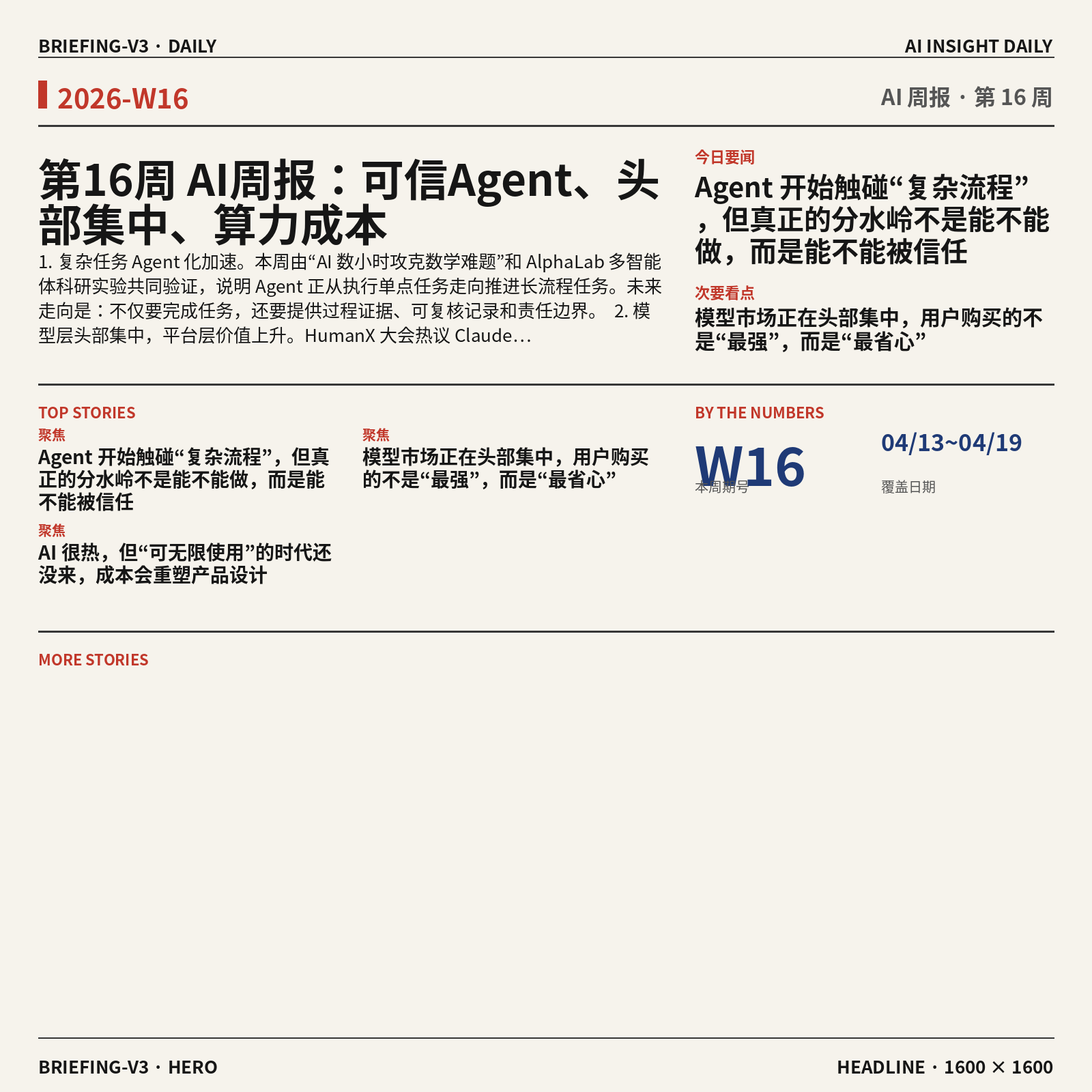
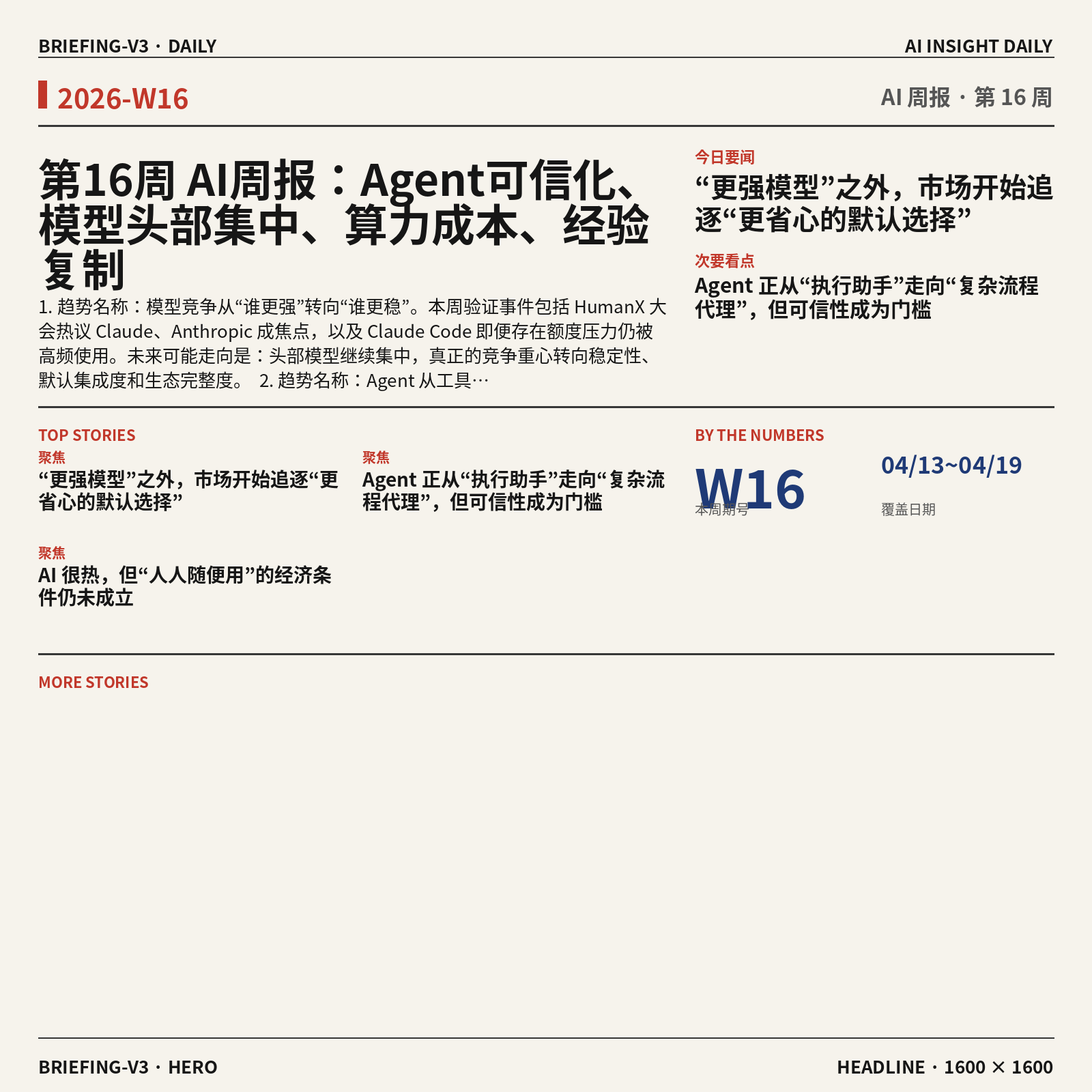
feat: CB Insights 风格趋势全景图 + 更新大字报

Changed region(s): [[0.0312, 0.125, 0.9688, 0.5625], [0.0312, 0.5938, 0.1562, 0.625]]

diff --git a/content/cn/blog/weekly/2026-W16.md b/content/cn/blog/weekly/2026-W16.md
@@ -1,5 +1,5 @@
 ---
-title: "第16周 AI周报：可信Agent、头部集中、算力成本"
+title: "第16周 AI周报：Agent可信化、模型头部集中、算力成本、经验复制"
 date: 2026-04-13T00:00:00+08:00
 tags: ["周报", "2026"]
 description: "2026-04-13 ~ 2026-04-19 AI行业周度综合分析"
@@ -15,209 +15,257 @@ description: "2026-04-13 ~ 2026-04-19 AI行业周度综合分析"
 
 ## 本周聚焦
 
-### 1. Agent 开始触碰“复杂流程”，但真正的分水岭不是能不能做，而是能不能被信任
-本周最值得重视的主线，是两条看似分散、实则高度相关的消息同时出现：一是“中国 AI 数小时攻克十年数学难题”，引发“机器能否独立科研”的讨论；二是 AlphaLab 想让多智能体（多个 AI 分工协作的系统）自动跑完整科研实验。表面上看，这都是“AI 更强了”的新闻；但更深一层，它们共同把 Agent 的竞争从“会不会做任务”推进到“能不能完成复杂流程，并让人相信结果”。
+### 1. “更强模型”之外，市场开始追逐“更省心的默认选择”
+本周一个很强的会场信号来自 HumanX：大会几乎都在聊 Claude，Anthropic 成为焦点。这不是单一品牌热度的问题，而是在说明模型市场的竞争标准正在发生变化。过去大家更关注“谁在榜单上更强”，现在越来越多真实使用者开始偏向“谁更稳定、谁更少出错、谁更容易接入团队工作流（把工具真正嵌进日常工作流程）”。同一天出现的另一条信息也能互相印证：Claude Code 用户反馈，Pro Max 5 倍额度 1.5 小时就耗尽。也就是说，头部产品即便仍有成本和额度摩擦，用户依然在涌向它，说明市场对“可靠默认值”的需求，正在压过对“单次极限性能”的追逐。
 
-为什么这件事重要？因为简单问答、单轮生成、局部辅助，已经越来越难形成真正壁垒。真正拉开差距的，是 AI 是否能在一个长流程里持续推进：拆解目标、调用工具、尝试路径、纠错迭代、给出结论。如果 AI 真的开始进入科研、数学、实验设计这类高复杂度场景，那么行业评价标准就会改变。过去大家比的是模型参数、跑分、单次输出质量；接下来更关键的，是过程透明度、证据链完整性、失败可追踪性、结果可复核性。
+这为什么重要？因为这意味着行业已经从“技术展示期”进入“选择收敛期”。在展示期，新模型只要在某个 benchmark（基准测试）上赢一点，就有传播空间；但在选择收敛期，用户真正关心的是：能不能持续用、团队里大多数人会不会用、出问题时能不能解释、采购和上线风险大不大。Anthropic 被热议，本质上反映的不是大家突然不在乎性能，而是企业和开发者开始用“总体使用体验”来投票。
 
-这对行业意味着什么？第一，Agent 平台的核心价值会从“接入多少模型”转向“如何管理复杂任务的可信执行”。用户未必在乎背后是一个模型还是多个 Agent 协作，但一定会在乎：为什么得出这个答案、用了哪些依据、有没有走偏、失败时能不能定位问题。第二，所谓“独立科研”短期内更可能是一种营销叙事，而不是可直接交付的稳定能力。原因并不神秘：复杂任务里，任何一步判断失真、工具调用错误、上下文污染，都可能把最终结论带偏。第三，谁能把复杂流程产品化，谁才更接近下一阶段入口。这里的产品化，不是做一个更炫的聊天框，而是让普通人也能看懂任务是怎么被完成的。
+对行业意味着什么？第一，后来者只靠再做一个“平均能力更强一点”的模型，会越来越难突围。第二，围绕头部模型形成的生态位会更值钱，比如代码 Agent、工作流封装、组织知识复用、结果审查与评测层。第三，用户会越来越接受“模型不是主角，能把模型变成稳定服务的平台才是主角”。这对创业公司尤其关键：如果底层模型头部集中加快，那么上层产品的护城河就不能建立在“我们也能接一个最强模型”，而要建立在“我们能把复杂选择变成可信结果”。
 
-对我们这类面向普通用户的 Agent 调度与进化平台来说，这一周的信息很直接：平台不能只展示结果，更要展示“结果是怎么来的”。尤其当 Agent 被用于高价值决策时，可信来源、步骤回放、依据标注、版本比较，会比单纯模型效果更重要。换句话说，Agent 正在从“工具”走向“代理人”，而代理人一旦介入复杂流程，信任机制就必须先行。
+从本周素材看，开源项目如 qwen-code、agent-skills、claude-code-local 也在侧面证明这一点：大家不是在单纯追求一个聊天机器人，而是在补齐终端执行、工程技能、本地替代这些“可用性缺口”。模型战争表面上仍在卷参数和能力，实际上市场更在乎的是谁能成为默认工作界面。
 
 ```mermaid
 graph TD
-  classDef event fill:#dbeafe,stroke:#3b82f6,color:#111827;
-  classDef impact fill:#fef3c7,stroke:#f59e0b,color:#111827;
-  classDef insight fill:#d1fae5,stroke:#10b981,color:#111827;
-
   subgraph 事件层
-    A[中国AI数小时攻克数学难题]:::event
-    B[AlphaLab尝试多智能体跑科研流程]:::event
-    C[围绕独立科研能力的讨论升温]:::event
+    A[HumanX大会热议Claude]
+    B[Anthropic成行业焦点]
+    C[Claude Code额度快速耗尽]
+    D[qwen-code等开源Agent涌现]
   end
 
   subgraph 影响层
-    D{Agent已触及复杂任务边界}:::impact
-    E{评价标准从会做转向可信}:::impact
-    F{单次输出强不等于流程可靠}:::impact
-    G{复杂任务需要证据链与复核}:::impact
+    E{用户选择标准转向省心}
+    F{头部模型形成默认选项}
+    G{单靠能力领先更难突围}
+    H{生态层价值上升}
   end
 
   subgraph 启示层
-    H{{平台应展示过程而非只给答案}}:::insight
-    I{{可信来源与步骤回放成关键能力}}:::insight
-    J((Agent竞争进入信任阶段)):::insight
+    I{{产品竞争转向体验整合}}
+    J{{Agent平台需强化评测与路由}}
+    K((稳定服务比单点最强更重要))
   end
 
-  A -- 触发 --> C
-  B -- 验证 --> D
-  C -- 放大 --> E
-  D -- 推动 --> E
-  E -- 指向 --> F
-  F -- 需要 --> G
+  A -- 会场讨论 --> B
+  B -- 强化 --> E
+  C -- 仍未阻止 --> F
+  D -- 补足 --> H
+  E -- 导致 --> F
+  F -- 挤压 --> G
   G -- 倒逼 --> H
-  G -- 强化 --> I
-  H -- 汇聚为 --> J
-  I -- 汇聚为 --> J
+  H -- 指向 --> I
+  E -- 需要 --> J
+  I -- 汇聚为 --> K
+  J -- 支撑 --> K
+
+  classDef event fill:#dbeafe,stroke:#3b82f6;
+  classDef impact fill:#fef3c7,stroke:#f59e0b;
+  classDef insight fill:#d1fae5,stroke:#10b981;
+  class A,B,C,D event;
+  class E,F,G,H impact;
+  class I,J,K insight;
 ```
 
-### 2. 模型市场正在头部集中，用户购买的不是“最强”，而是“最省心”
-本周另一条非常清晰的线索，来自 HumanX 大会对 Claude 的集中讨论，以及“Anthropic 正在成为行业焦点”的报道。与此同时，开源侧也出现了一批围绕 Claude Code、qwen-code、agent-skills、claude-code-local 的项目和讨论。这说明一个现实：行业表面上仍在谈模型能力创新，但市场实际购买决策，已经越来越偏向“稳定、熟悉、低心智负担”的头部产品。
+### 2. Agent 正从“执行助手”走向“复杂流程代理”，但可信性成为门槛
+本周最值得重视的另一条主线，是“中国 AI 数小时攻克十年数学难题”引发“机器能否独立科研”讨论，以及 AlphaLab 这类多智能体自动跑完整科研实验的方向被提及。与此同时，还有研究者专门给“世界模型”下定义，并指出文生视频还不算。这几条信息放在一起看，代表行业正在尝试把 Agent 从“回答问题、生成内容”推进到“理解任务、规划步骤、调用工具、迭代验证、产出结论”的更高层级。
 
-为什么这件事重要？因为这意味着模型层创业的窗口继续变窄，而应用层、平台层的机会却更明确了。用户并不总是追逐榜单第一，他们更在乎：这个东西是不是大家都在用、是否容易上手、在关键场景会不会掉链子、出了问题有没有成熟经验可参考。Claude 成为大会焦点，不只是因为它“强”，更因为它在很多专业用户心中形成了某种“可预期”。而一旦这种认知形成，后来者即便局部能力更强，也很难只靠性能优势撬动迁移。
+这为什么重要？因为一旦 Agent 的目标从“输出一个像样答案”变成“推进一条复杂任务链”，评价标准就变了。过去用户可能只需要一句看起来合理的话，现在必须追问：这个结果是怎么得到的？中间调用了哪些工具？哪些环节是模型猜的，哪些环节有外部依据？别人能否复现？特别是科研、代码、数据分析、商业决策这些高价值任务，真正的瓶颈不再只是能力，而是可信度和可复核性（别人能沿着同样过程重新检查）。
 
-对行业意味着什么？第一，基础模型正在快速品牌化。未来竞争不仅是参数和推理能力的竞争，也是“默认选择权”的竞争。第二，开源项目大量围绕头部模型生态生长，说明开发者和用户会顺着主流能力搭建工具链，而不是平均分布到每个新模型上。第三，这会进一步加速平台型产品的重要性：当底层模型头部集中时，真正可竞争的价值不在“你是否自研模型”，而在“你能否帮用户在主流模型之上做更好的选择、编排、比较和沉淀”。
+“世界模型”定义之争也很关键。它提醒行业：不要把任何看起来复杂、能生成多模态内容的系统都称为“理解世界”。如果一个系统只是在统计上生成逼真视频，它不一定具备可用于推理、规划和长期任务执行的内部表征（对环境状态的稳定理解）。这类概念澄清看似学术，实际上会直接影响产品判断。很多团队容易被“能演示”误导，以为离“能完成复杂任务”只差一点工程封装；但本周的讨论说明，这两者中间还隔着验证、记忆、反馈、环境建模等一整套能力栈。
 
-对我们来说，启示很现实。我们不应该假设用户愿意频繁试用十几个模型，也不该把“模型多”直接等同于“平台强”。平台更像一个决策与信任层：帮用户在少数主流能力之间快速判断哪个更适合当前任务，记录历史表现，形成可迁移的使用经验。用户要的往往不是无限选择，而是低风险地做对选择。
+对行业意味着什么？第一，多 Agent 会继续升温，因为复杂任务天然适合拆分角色与流程。第二，展示结果会越来越不够，平台需要展示依据、轨迹、评价和回放。第三，真正有价值的不是“某个 Agent 会不会自动做科研”，而是“它产出的过程能不能被人和系统共同审计（系统化检查）”。这将决定 Agent 是停留在演示玩具，还是进入真实生产环境。
+
+对于面向普通用户的产品，这一点反而更关键。普通人不是不愿意用 AI 替他做事，而是不敢在高价值任务上把决定权交出去。谁能把“黑箱代理”变成“可追溯代理”，谁就更接近建立长期信任。
 
 ```mermaid
 graph TD
-  classDef event fill:#dbeafe,stroke:#3b82f6,color:#111827;
-  classDef impact fill:#fef3c7,stroke:#f59e0b,color:#111827;
-  classDef insight fill:#d1fae5,stroke:#10b981,color:#111827;
-
   subgraph 事件层
-    A[HumanX大会热议Claude]:::event
-    B[Anthropic成为行业焦点]:::event
-    C[多项开源工具围绕Claude与代码Agent展开]:::event
+    A[中国AI数小时攻克数学难题]
+    B[AlphaLab探索多Agent科研]
+    C[研究者重定义世界模型]
+    D[复杂任务从回答转向推进流程]
   end
 
   subgraph 影响层
-    D{用户偏好从先进转向省心}:::impact
-    E{模型市场头部集中加速}:::impact
-    F{生态工具随主流模型聚拢}:::impact
-    G{后来者仅靠能力优势更难突围}:::impact
+    E{Agent能力边界被抬高}
+    F{结果可信性成为核心门槛}
+    G{仅看演示效果已不够}
+    H{过程可复核需求上升}
   end
 
   subgraph 启示层
-    H{{平台价值在选择与比较层}}:::insight
-    I{{少而稳的模型策略优于盲目堆接入}}:::insight
-    J((默认选择权成为新壁垒)):::insight
+    I{{平台要展示过程与依据}}
+    J{{多Agent需要评测与审计层}}
+    K((可信代理比炫技代理更有价值))
   end
 
-  A -- 显示 --> D
-  B -- 加强 --> E
-  C -- 跟随 --> F
-  D -- 导向 --> E
-  F -- 加深 --> G
-  E -- 倒逼 --> H
-  G -- 支持 --> H
-  H -- 进一步指向 --> I
-  E -- 汇聚为 --> J
-  I -- 汇聚为 --> J
+  A -- 引发 --> E
+  B -- 推动 --> D
+  C -- 澄清 --> G
+  D -- 导致 --> F
+  E -- 抬升 --> F
+  F -- 需要 --> H
+  G -- 倒逼 --> I
+  H -- 指向 --> J
+  I -- 汇聚为 --> K
+  J -- 支撑 --> K
+  C -- 提醒 --> I
+
+  classDef event fill:#dbeafe,stroke:#3b82f6;
+  classDef impact fill:#fef3c7,stroke:#f59e0b;
+  classDef insight fill:#d1fae5,stroke:#10b981;
+  class A,B,C,D event;
+  class E,F,G,H impact;
+  class I,J,K insight;
 ```
 
-### 3. AI 很热，但“可无限使用”的时代还没来，成本会重塑产品设计
-本周还有一组很有张力的信号：一边是台积电有望连续四个季度创利润新高，显示 AI 需求仍在强力拉动半导体景气；另一边是 Claude Code 用户抱怨 Pro Max 五倍额度 1.5 小时就耗尽。这组信息放在一起看，结论并不复杂：AI 需求很旺，但底层算力（用于训练和运行 AI 的芯片与计算资源）依然昂贵，用户端体验仍受制于成本，不存在“想怎么用就怎么用”的普及状态。
+### 3. AI 很热，但“人人随便用”的经济条件仍未成立
+本周还有一条很现实的主线：台积电有望连四季创利润新高，AI 需求正在改写半导体景气周期；另一边，Claude Code 用户对额度消耗过快的抱怨，直接把“高阶 AI 很贵”这件事暴露出来。行业表面看起来已经进入繁荣期，但底层事实是，算力供给仍然紧、成本仍然高、用户在高频深度使用时依旧会碰到明显摩擦。
 
-为什么重要？因为很多团队容易被行业热度误导，以为用户会天然接受高频试错、长链路调用、多轮探索。但只要成本还高，用户就会变得更谨慎，也会对“每一次调用值不值”更敏感。尤其在 Agent 场景里，一个任务往往不是一次生成，而是多步推理、多模型协作、多工具尝试。如果平台没有良好的前置评估与策略控制，用户很快就会觉得贵、慢、不可控。
+这为什么重要？因为它打破了一个常见误判：很多人会默认模型会像互联网流量一样快速便宜化，然后产品只要先把功能做全、把试错门槛拉低就行。但本周信号表明，至少在中短期内，优质模型和高强度推理（需要更长上下文、更复杂步骤的模型计算）依然是稀缺资源。台积电利润持续创新高，说明不是某一家模型公司在赚钱，而是整条基础设施链条都仍处于供不应求的阶段。
 
-对行业意味着什么？第一，算力约束会抑制一部分“看起来很酷但没有产出效率”的玩法，真正能活下来的产品，必须让成本与结果之间有清晰对应关系。第二，开源、本地化、轻量化会继续活跃，例如本周出现的 claude-code-local，就反映出一部分用户和开发者正在寻找替代云端高成本使用的路径。第三，Agent 产品会进入“经济性竞争”：谁能在可接受成本下，把任务完成率、速度与可解释性同时做得更好，谁就更有机会穿越泡沫。
+对行业意味着什么？第一，成本控制会继续决定产品形态。不是所有功能都值得默认开启，也不是所有用户都能承受“无限调用、无限试错”的交互方式。第二，路由能力（先判断任务该交给哪类模型）会比“单模型全包”更重要。第三，缓存、复用、经验沉淀和结果评估的价值会上升，因为每一次不必要的调用都是真金白银。第四，所谓 AI 普及，不会先表现为“人人无限使用最强模型”，而更可能表现为“在关键节点上调用足够好的模型，其余环节尽量工程化节省成本”。
 
-对我们而言，这不是坏消息，反而是产品设计机会。因为当成本高、选择多、结果不稳定时，用户更需要一个中间层，先帮他们判断任务难度、预估调用代价、选择更合适的方案，再决定是否执行。换句话说，在昂贵时代，好的 Agent 平台不只是“帮你做事”，更要“帮你少花冤枉钱”。
+这一点也和 Meta 做“AI 扎克伯格”形成呼应。企业下一波买单，不一定是更强的通用模型，而可能是把组织内最佳经验打包成可复用资产。原因很现实：复制经验通常比重新从零推理便宜，也更稳定。换句话说，成本压力会逼着行业从“每次都重新思考”转向“优先复用验证过的做法”。
 
 ```mermaid
 graph TD
-  classDef event fill:#dbeafe,stroke:#3b82f6,color:#111827;
-  classDef impact fill:#fef3c7,stroke:#f59e0b,color:#111827;
-  classDef insight fill:#d1fae5,stroke:#10b981,color:#111827;
-
   subgraph 事件层
-    A[台积电有望连四季利润新高]:::event
-    B[Claude Code额度1.5小时耗尽引发吐槽]:::event
-    C[本地替代方案与开源工具继续出现]:::event
+    A[台积电利润有望连四季新高]
+    B[AI需求改写半导体周期]
+    C[Claude Code高额度仍快速耗尽]
+    D[Meta探索复制组织经验]
   end
 
   subgraph 影响层
-    D{底层算力仍然昂贵}:::impact
-    E{用户无法无限试错}:::impact
-    F{Agent长链路调用放大成本问题}:::impact
-    G{产品竞争转向经济性与效率}:::impact
+    E{优质算力仍然稀缺}
+    F{高频深度使用成本偏高}
+    G{产品不能默认无限试错}
+    H{经验复用价值上升}
   end
 
   subgraph 启示层
-    H{{先评估再调用应成为产品默认机制}}:::insight
-    I{{轻量化与本地化将长期存在}}:::insight
-    J((成本约束决定普及节奏)):::insight
+    I{{先评估再调用会成为标配}}
+    J{{模型路由与成本控制成核心能力}}
+    K((AI大众化将先发生在高价值节点))
   end
 
-  A -- 说明 --> D
-  B -- 暴露 --> E
-  C -- 回应 --> D
-  D -- 传导至 --> F
-  E -- 强化 --> F
-  F -- 推动 --> G
-  G -- 倒逼 --> H
-  D -- 催生 --> I
-  H -- 汇聚为 --> J
-  I -- 汇聚为 --> J
+  A -- 反映 --> E
+  B -- 强化 --> E
+  C -- 暴露 --> F
+  D -- 指向 --> H
+  E -- 导致 --> G
+  F -- 倒逼 --> J
+  G -- 需要 --> I
+  H -- 支撑 --> I
+  I -- 汇聚为 --> K
+  J -- 支撑 --> K
+  F -- 推动 --> H
+
+  classDef event fill:#dbeafe,stroke:#3b82f6;
+  classDef impact fill:#fef3c7,stroke:#f59e0b;
+  classDef insight fill:#d1fae5,stroke:#10b981;
+  class A,B,C,D event;
+  class E,F,G,H impact;
+  class I,J,K insight;
 ```
 
 ---
 
 ## 信号与噪音
 
-1. 研究者给“世界模型”下定义，指出文生视频还不算。点评：这提醒行业不要把“生成得像”误判为“真正理解世界并可推演因果”，概念边界一旦被澄清，相关创业叙事也会被重新估值。
+1. 谷歌的 AI 广告机器正在改写搜索规则，品牌方称营收最高可增 80%。点评：这说明 AI 对商业化的影响已不止是“提升内容生产效率”，而是开始改写流量分配与投放回报逻辑；但这类收益往往建立在平台黑箱增强之上，品牌对平台依赖也会同步上升。
 
-2. 谷歌 AI 广告机器改写搜索规则，品牌称营收最高可增 80%。点评：AI 对互联网入口的改造已经不止于聊天产品，而是直接进入商业分发系统；对平台公司来说，谁控制推荐与决策链路，谁就更接近收入核心。
+2. Meta 被曝打造“AI 扎克伯格”，让员工与创始人的数字分身互动。点评：企业场景的真实需求可能不是一个万能助手，而是把高价值人物的表达风格、判断框架和经验沉淀成可反复调用的资产，这对知识管理和组织复制是个重要信号。
 
-3. Meta 被曝打造“AI 扎克伯格”与员工互动。点评：这不是一个单纯噱头，它指向“经验人格化复制”这条路径——企业未必最想买万能 AI，而更可能想买“某个优秀角色的稳定替身”。
+3. 苹果 AI 眼镜曝光，或将以多种风格对标 Meta。点评：硬件入口竞争仍在继续，但从本周信息看，真正的胜负还不在“有没有 AI 眼镜”，而在“眼镜承载的 AI 是否足够日常、足够自然、足够有持续价值”。
 
-4. 苹果 AI 眼镜曝光，或将以多种风格对标 Meta。点评：硬件入口竞争仍在继续，但短期看决定性因素不是外形，而是是否有足够稳定、低延迟、可持续使用的 AI 能力支撑日常场景。
+4. OpenMontage 把 AI 编码助手扩展成视频制作工作室。点评：这代表“代码 Agent”正在外溢到更广义的生产工具形态，用户并不在意底层是不是代码模型，他们在意的是一个 Agent 能不能连续完成多步创作任务。
 
-5. QwenLM/qwen-code 被描述为“住在终端里的开源 AI Agent”，同时 agent-skills 试图补上工程化能力。点评：开源社区正从“能聊天”转向“能干活”，尤其在开发者场景，工具调用、流程复用、技能封装开始比纯模型对话更重要。
+5. JoyAI-Image 作为统一多模态图像基础模型被京东开源。点评：多模态基础模型仍在持续下沉到开源生态，这会加速图像相关能力的商品化；但对创业公司来说，单一生成能力更难形成壁垒，关键仍是流程和场景整合。
 
-6. OpenMontage 想把 AI 编码助手扩展成视频制作工作室，JoyAI-Image 则强调统一多模态图像基础模型。点评：多模态能力继续向具体工作流下沉，未来竞争不只是模型会不会看图生成视频，而是谁能把跨模态能力包装成可交付结果。
+6. agent-skills 这类项目试图给 AI 编码助手补上工程化真本事。点评：这说明市场对“会说”已经不满足，开始要求 Agent 具备真实工程能力，例如理解项目结构、处理依赖关系、执行更完整任务链；真正的价值在于可交付，而不是会聊天。
 
-7. 《AI 裁员陷阱》关注企业用 AI 替代人力的潜在反噬，另有研究称经验回放有望降低强化学习（通过试错优化模型行为的方法）成本。点评：前者说明组织改造不能只算短期人效，后者说明行业仍在努力降低训练与使用成本；一冷一热放在一起，体现出 AI 商业化会长期在“效率诱惑”和“实际摩擦”之间摇摆。
+7. 《AI 裁员陷阱》讨论企业用 AI 替代人力的潜在反噬。点评：这提醒行业，AI 的短期 ROI（投入产出比）叙事可能掩盖了组织学习能力下降、责任边界模糊和服务质量波动等长期风险，企业采纳 AI 不能只看人力替代数字。
 
 ---
 
 ## 宏观趋势
 
-1. 复杂任务 Agent 化加速。本周由“AI 数小时攻克数学难题”和 AlphaLab 多智能体科研实验共同验证，说明 Agent 正从执行单点任务走向推进长流程任务。未来走向是：不仅要完成任务，还要提供过程证据、可复核记录和责任边界。
+1. 趋势名称：模型竞争从“谁更强”转向“谁更稳”。本周验证事件包括 HumanX 大会热议 Claude、Anthropic 成焦点，以及 Claude Code 即便存在额度压力仍被高频使用。未来可能走向是：头部模型继续集中，真正的竞争重心转向稳定性、默认集成度和生态完整度。
 
-2. 模型层头部集中，平台层价值上升。HumanX 大会热议 Claude、Anthropic 成焦点，再加上一批围绕 Claude 与代码 Agent 的工具出现，都说明用户正把“省心”和“稳定”放在更高位置。未来走向是：基础模型品牌化更强，应用平台需要承担选择、组合、评估和迁移的角色。
+2. 趋势名称：Agent 从工具助手升级为流程代理。本周验证事件包括中国 AI 数小时攻克数学难题、AlphaLab 多 Agent 科研方向，以及 OpenMontage、agent-skills 这类把单点能力扩展成连续工作流的项目。未来可能走向是：多 Agent 编排、任务拆解、结果回放与审计会成为平台级能力。
 
-3. AI 成本约束仍然强，经济性会决定普及速度。台积电利润创新高与 Claude Code 配额快速耗尽，构成了供需两侧的直接证据。未来走向是：轻量模型、本地方案、前置评估与成本控制，会成为产品体验的一部分，而不是后台问题。
+3. 趋势名称：可信性正在取代炫技，成为高价值场景门槛。本周验证事件包括“机器能否独立科研”的讨论，以及研究者对“世界模型”概念的澄清。未来可能走向是：谁能提供依据展示、过程可复核、结果可比较，谁才更有机会进入科研、企业决策和复杂生产场景。
 
-4. AI 从通用能力展示走向“经验封装”。Meta 的“AI 扎克伯格”以及多模态工作流工具，都在说明一个趋势：用户越来越愿意为可复制的做事方式、特定角色经验和可预期输出买单。未来走向是：人格、风格、行业方法论将成为 Agent 商品化的重要维度。
+4. 趋势名称：AI 普及节奏仍受算力成本约束。本周验证事件包括台积电利润持续创新高和 Claude Code 配额消耗过快。未来可能走向是：产品形态会更强调模型路由、成本分层、经验复用，而不是假设用户可以无限调用最强模型。
 
 ### 趋势全景图
 
 ```mermaid
-mindmap
-  root((本周AI趋势))
-    复杂任务Agent化
-      数学难题突破
-      多智能体科研
-      可信复核成核心
-    模型头部集中
-      HumanX热议Claude
-      Anthropic成焦点
-      生态围绕主流聚拢
-    成本约束持续
-      台积电利润新高
-      Claude额度耗尽
-      轻量本地化活跃
-    经验封装商品化
-      AI扎克伯格
-      多模态工作流
-      风格来源更重要
+graph TD
+  subgraph T1[模型竞争从更强转向更稳]
+    A1[HumanX热议Claude]
+    A2[Anthropic成会场焦点]
+    A3[Claude Code额度快速耗尽]
+  end
+
+  subgraph T2[Agent从助手升级为流程代理]
+    B1[数学难题被数小时攻克]
+    B2[AlphaLab推进多Agent科研]
+    B3[OpenMontage扩展为视频工作室]
+  end
+
+  subgraph T3[可信性成为高价值场景门槛]
+    C1[机器能否独立科研引发争论]
+    C2[世界模型定义被重新澄清]
+    C3[agent-skills补齐工程能力]
+  end
+
+  subgraph T4[算力成本约束AI普及节奏]
+    D1[台积电利润有望连四季新高]
+    D2[AI需求改写半导体周期]
+    D3[Meta探索AI扎克伯格复制经验]
+  end
+
+  A1 -.->|头部集中抬高平台依赖| D1
+  A2 -.->|默认模型影响上层产品设计| B2
+  A3 -.->|成本压力倒逼路由优化| D3
+  B1 -.->|复杂任务需要可验证过程| C1
+  B2 -.->|多Agent放大可信性问题| C2
+  B3 -.->|连续工作流催生工程要求| C3
+  C3 -.->|工程化提高使用强度| D2
+  D3 -.->|经验复用缓解算力浪费| B3
+  D1 -.->|成本约束强化头部优势| A2
+
+  classDef blue fill:#dbeafe,stroke:#3b82f6;
+  classDef yellow fill:#fef3c7,stroke:#f59e0b;
+  classDef green fill:#d1fae5,stroke:#10b981;
+  classDef purple fill:#ede9fe,stroke:#8b5cf6;
+
+  class A1,A2,A3 blue;
+  class B1,B2,B3 yellow;
+  class C1,C2,C3 green;
+  class D1,D2,D3 purple;
+
+  style T1 fill:#eff6ff,stroke:#3b82f6,stroke-width:1px;
+  style T2 fill:#fffbeb,stroke:#f59e0b,stroke-width:1px;
+  style T3 fill:#ecfdf5,stroke:#10b981,stroke-width:1px;
+  style T4 fill:#f5f3ff,stroke:#8b5cf6,stroke-width:1px;
 ```
 
 ---
 
 ## 对我们的启发
 
-产品方向上，第一，必须把“过程可见、依据可查、结果可复核”做成平台基础能力，而不是高级选项；复杂任务越多，用户越不会只接受一个答案。第二，要强化“先评估再执行”的体验，例如先判断任务类型、预估可能成本与成功率，再推荐最合适的 Agent 或方案。
+产品方向上，最直接的启发是：不要把平台理解成“接更多模型”，而要理解成“帮用户减少选择成本并提高结果可信度”。本周多条事件都在说明，用户不缺能聊天的模型，缺的是能解释为什么这样做、能展示过程、能比较不同方案的产品层。我们应优先强化任务评估、Agent 过程展示、结果复核，而不是一味堆能力入口。
 
-竞争策略上，没必要追求接入最多模型，更重要的是围绕少数主流模型做出更稳定的选择层、比较层和经验沉淀层。用户更需要“帮我选对”，而不是“给我看花”。同时，可以提前布局“人格化/风格化 Agent”与“可信来源标签”，因为经验复制正在变成需求。
+竞争策略上，Anthropic 成为焦点说明头部模型会越来越像基础设施。对我们来说，与其幻想自建底模差异，不如把护城河放在上层：对不同 Agent 的评价体系、经验沉淀、人格与风格标签、可信来源标注，以及在不同任务中做模型与方案路由。谁能让普通用户知道“该选谁、为什么选、出了问题怎么追”，谁更有机会赢。
 
-时机判断上，现在还不是算力无限、用户愿意无限试错的阶段，因此节制调用、提升命中率、减少无效探索，反而能构成真实优势。市场并未晚，真正的窗口正在从模型能力竞赛，切到可信与经济性的产品竞赛。
+时机判断上，本周也提醒我们不能假设 AI 已进入“无限低成本普及”阶段。算力仍贵、深度使用仍有额度摩擦，所以产品设计必须珍惜每一次调用。先评估再调用、优先复用已有经验、把高成本能力放到关键节点，会比默认让用户无脑试错更现实。这也是早期团队建立效率优势的机会。
 
 ---
 
 ## 本周思考
 
-如果未来用户真正依赖的不是“最强 AI”，而是“最可信、最像某种经验的人机组合”，那我们的平台到底是在分发模型，还是在分发可被信任的做事方式？
+如果未来真正稀缺的不是模型能力，而是“被验证过、能复用、可追责的 Agent 做事方式”，那么我们在构建的是一个工具平台，还是一个新的“AI 信誉体系”入口？
